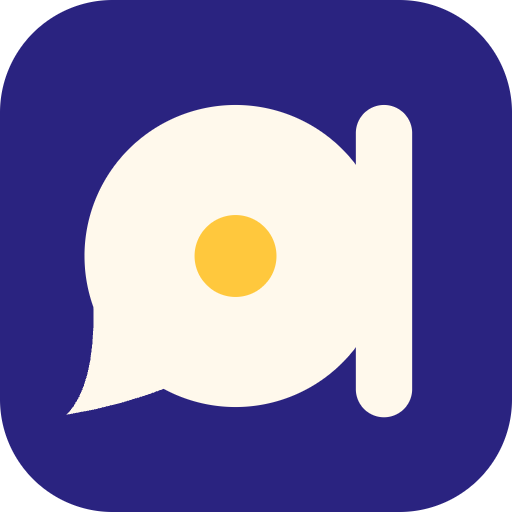
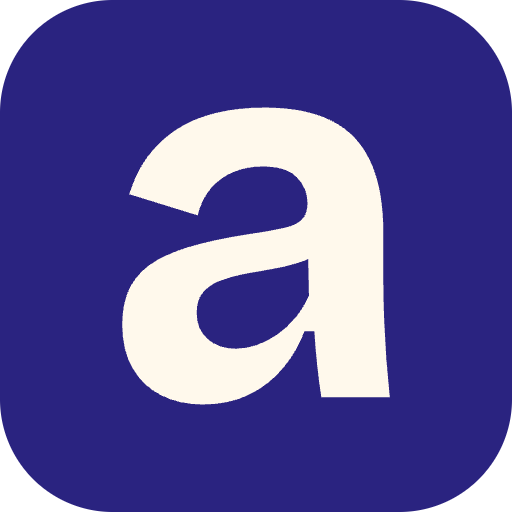
Logotipo de Aly en Bricolage Grotesque y títulos en la misma letra
Daniel eligió, entre tres direcciones que propuso Codex, la «aly» en
Bricolage Grotesque 700 (ancho 100, tamaño óptico 12): una grotesca cálida y
compacta, con la «a» abierta como una voz. Reemplaza la «a»-burbuja con
semilla de la primera versión.

- generar_marca.py guarda los trazados (la fuente es OFL; el logo no depende
  de que esté instalada) y regenera los SVG; PNG re-exportados con los mismos
  nombres, así que los correos (que cargan /marca/aly-correo.png) toman el
  logo nuevo apenas se despliega.
- Títulos de página (h1, encabezados nativos y el del login) en Bricolage
  Grotesque 700; Figtree para todo lo demás.
- Logotipo un poco más alto en la barra lateral (46 px) y el login (88 px):
  la palabra nueva es más compacta.

Verificado: AppTest de las 4 páginas en los 3 bots y el login; capturas del
panel y del login.

Claude-Session: https://claude.ai/code/session_01HRuNEynVdqXNFVZ36Uqjrp

Changed region(s): [[0.125, 0.1875, 0.8125, 0.8125]]

diff --git a/assets/brand/generar_marca.py b/assets/brand/generar_marca.py
@@ -1,65 +1,57 @@
-"""Isotipo y logotipo de Aly — fuente única de la marca.
+"""Logotipo e isotipo de Aly — fuente única de la marca.
 
-Aly es el asistente de WhatsApp de Equimundo (Apapáchar en Colombia, Semillas
-de Igualdad en México y el demo). La «a» es una burbuja de chat con la semilla
-adentro: la conversación (WhatsApp), el cuidado y lo que crece (Semillas); el
-resto del nombre va con el mismo trazo redondo.
+Aly es el asistente de WhatsApp de los programas de Equimundo (Apapáchar en
+Colombia, Semillas de Igualdad en México y el demo). El nombre va en
+**Bricolage Grotesque** 700 (ancho 100, tamaño óptico 12), convertida a
+trazados: una grotesca cálida y con carácter, compacta, con la «a» abierta
+como una voz. Los trazados los preparó Codex (OpenAI) a partir de la fuente
+de Google Fonts, que es SIL Open Font License; el logo no depende de que la
+fuente esté instalada. Elegida por Daniel el 2026-11-12, entre tres
+direcciones (ver CLAUDE.md, «Marca Aly»).
 
 Para regenerar los SVG de esta carpeta:
 
     python3 assets/brand/generar_marca.py
 
 Los PNG (WhatsApp 640, ícono 512, favicon 64, apple-touch 180, cabecera de
-correo 600×120) se rasterizan desde estos SVG con un navegador headless; no
-hace falta regenerarlos salvo que cambie el dibujo. Ver CLAUDE.md, «Marca».
+correo 600×120, logotipo para Word) se rasterizan desde estos SVG con un
+navegador headless; hay que regenerarlos si cambia el dibujo.
 """
 
-import math
-
 INDIGO, GIRASOL, CREMA = "#2A2380", "#FFC83D", "#FFF9EC"
-W = 11            # grosor del trazo
-R = 24            # radio del ojo (interior del trazo)
 
-def _bubble(cx, cy, ink):
-    """Burbuja rellena con cola abajo a la izquierda (forma de chat)."""
-    ro = R + W / 2
-    a = math.radians(128)
-    bx, by = cx + ro * math.cos(a), cy + ro * math.sin(a)          # donde nace la cola
-    a2 = math.radians(160)
-    b2x, b2y = cx + ro * math.cos(a2), cy + ro * math.sin(a2)
-    tipx, tipy = cx - ro - 3.5, cy + ro + 1.5                       # punta de la cola
-    return (f'<circle cx="{cx}" cy="{cy}" r="{ro}" fill="{ink}"/>'
-            f'<path d="M{b2x:.2f},{b2y:.2f} Q{cx-ro+2:.2f},{cy+ro-4:.2f} {tipx:.2f},{tipy:.2f} '
-            f'Q{bx-4:.2f},{by+6:.2f} {bx+6:.2f},{by+2:.2f} Z" fill="{ink}"/>')
+# Trazados de «aly» en Bricolage Grotesque 700. Línea base en y=100.
+_A = "M26.92 101.37Q22.55 101.37 19.15 99.65Q15.75 97.93 13.83 94.6Q11.92 91.27 11.92 86.43Q11.92 82.13 13.56 79.22Q15.2 76.3 18.42 74.49Q21.65 72.68 26.35 71.48Q31.05 70.28 37.17 69.4Q40.27 68.9 42.31 68.43Q44.35 67.97 45.38 66.93Q46.4 65.9 46.4 63.88Q46.4 61.08 44.41 59.07Q42.42 57.07 38.02 57.07Q35.18 57.07 32.71 58.07Q30.23 59.07 28.48 61.08Q26.72 63.1 25.95 66.17L13.22 62.23Q14.47 58.18 16.69 55.18Q18.92 52.18 22.11 50.12Q25.3 48.07 29.42 47.08Q33.53 46.1 38.38 46.1Q46.03 46.1 50.9 48.56Q55.77 51.02 58.14 56.17Q60.52 61.32 60.52 69.4V78.35Q60.52 81.83 60.67 85.48Q60.82 89.13 61.07 92.78Q61.33 96.43 61.72 100.0H48.97Q48.58 97.48 48.23 94.29Q47.87 91.1 47.68 87.75H45.85Q44.43 91.52 41.82 94.64Q39.2 97.77 35.46 99.57Q31.72 101.37 26.92 101.37ZM33.07 90.98Q34.95 90.98 36.9 90.32Q38.85 89.65 40.69 88.4Q42.53 87.15 44.09 85.29Q45.65 83.43 46.67 81.05L46.5 72.52L48.75 73.02Q46.92 74.32 44.53 75.05Q42.13 75.78 39.58 76.2Q37.02 76.62 34.52 77.1Q32.03 77.58 30.06 78.37Q28.08 79.15 26.93 80.53Q25.78 81.9 25.78 84.3Q25.78 87.4 27.82 89.19Q29.85 90.98 33.07 90.98Z"
+_L = "M70.38 100.0V28.48H84.5V100.0Z"
+_Y = "M114.82 118.23Q110.8 118.23 106.62 117.47Q102.43 116.72 98.8 115.19Q95.17 113.67 92.62 111.27L96.68 98.97Q99.88 102.28 104.68 103.94Q109.48 105.6 114.18 105.6Q119.57 105.6 123.09 103.44Q126.62 101.28 128.48 96.82Q130.35 92.35 130.6 85.6L131.23 76.57H128.97Q128.02 83.18 125.73 87.34Q123.45 91.5 120.01 93.44Q116.57 95.38 111.92 95.38Q106.17 95.38 102.28 92.5Q98.38 89.62 96.43 83.83Q94.47 78.05 94.47 69.52V47.47H108.88V66.03Q108.88 75.35 110.97 79.45Q113.05 83.55 117.42 83.55Q119.73 83.55 121.61 82.28Q123.48 81.02 124.83 78.63Q126.17 76.25 126.92 72.78Q127.67 69.32 127.73 64.9V47.47H142.1V86.18Q142.1 92.52 141.0 97.65Q139.9 102.78 137.73 106.62Q135.55 110.47 132.28 113.08Q129.0 115.68 124.66 116.96Q120.32 118.23 114.82 118.23Z"
 
-def _a(cx, cy, ink, seed):
-    sx = cx + R + W / 2 - 0.5
-    return (_bubble(cx, cy, ink) +
-            f'<path d="M{sx:.2f},{cy-R:.2f} L{sx:.2f},{cy+R+2:.2f}" stroke="{ink}" stroke-width="{W}" stroke-linecap="round"/>'
-            f'<circle cx="{cx}" cy="{cy}" r="8" fill="{seed}"/>')
+# Cajas exactas (medidas con fontTools): «aly» y la «a» sola.
+_ALY_BOX = (11.92, 28.48, 142.10, 118.23)
+_A_BOX = (11.92, 46.10, 61.72, 101.37)
 
-def isotipo(ink=INDIGO, seed=GIRASOL, bg=None, rx=24, size=None):
-    s = f' width="{size}" height="{size}"' if size else ""
-    bgs = f'<rect width="100" height="100" rx="{rx}" fill="{bg}"/>' if bg else ""
-    return (f'<svg xmlns="http://www.w3.org/2000/svg" viewBox="0 0 100 100"{s} role="img" aria-label="Aly">'
-            f'{bgs}{_a(46, 50, ink, seed)}</svg>')
 
-def logotipo(ink=INDIGO, seed=GIRASOL, height=None):
-    """«aly»: la a-burbuja + l + y del mismo trazo. viewBox 0 0 196 112 (línea base en y=83)."""
-    cx, cy = 34.5, 54
-    top, base = cy - R - W / 2, cy + R + W / 2          # altura x
-    sa = cx + R + W / 2 - 0.5                              # asta de la a
-    lx = sa + 22                                           # l
-    yl, yr = lx + 22, lx + 22 + 2 * R                      # y: brazo izq y der
-    ycx = (yl + yr) / 2
-    parts = [_a(cx, cy, ink, seed),
-             f'<path d="M{lx:.2f},{top-21:.2f} L{lx:.2f},{base-W/2:.2f}" stroke="{ink}" stroke-width="{W}" stroke-linecap="round"/>',
-             # y: «u» redonda cuyo brazo derecho baja y termina en un gancho hacia la izquierda
-             f'<path d="M{yl:.2f},{top+W/2:.2f} L{yl:.2f},{cy+2:.2f} A{R},{R} 0 0 0 {yr:.2f},{cy+2:.2f}" fill="none" stroke="{ink}" stroke-width="{W}" stroke-linecap="round"/>',
-             f'<path d="M{yr:.2f},{top+W/2:.2f} L{yr:.2f},{base+6:.2f} Q{yr:.2f},{base+22:.2f} {ycx:.2f},{base+22:.2f} L{ycx-7:.2f},{base+22:.2f}" fill="none" stroke="{ink}" stroke-width="{W}" stroke-linecap="round" stroke-linejoin="round"/>']
+def logotipo(ink=INDIGO, height=None):
+    """«aly» completo. viewBox ajustado a la palabra con 4 unidades de aire."""
+    x0, y0, x1, y1 = _ALY_BOX
+    pad = 4
+    vb = f"{x0 - pad:.2f} {y0 - pad:.2f} {x1 - x0 + 2 * pad:.2f} {y1 - y0 + 2 * pad:.2f}"
     h = f' height="{height}"' if height else ""
-    return (f'<svg xmlns="http://www.w3.org/2000/svg" viewBox="0 0 {yr+W:.0f} 118"{h} role="img" aria-label="Aly">'
-            + "".join(parts) + '</svg>')
+    return (f'<svg xmlns="http://www.w3.org/2000/svg" viewBox="{vb}"{h} role="img" aria-label="Aly">'
+            f'<g fill="{ink}"><path d="{_A}"/><path d="{_L}"/><path d="{_Y}"/></g></svg>')
+
+
+def isotipo(ink=INDIGO, bg=None, rx=22, alto=58, size=None):
+    """La «a» sola, centrada en un cuadrado de 100. ``alto`` = su altura en
+    ese cuadrado (58 para ícono y favicon; menos para WhatsApp, que recorta
+    en círculo)."""
+    x0, y0, x1, y1 = _A_BOX
+    s = alto / (y1 - y0)
+    cx, cy = (x0 + x1) / 2, (y0 + y1) / 2
+    sz = f' width="{size}" height="{size}"' if size else ""
+    fondo = f'<rect width="100" height="100" rx="{rx}" fill="{bg}"/>' if bg else ""
+    return (f'<svg xmlns="http://www.w3.org/2000/svg" viewBox="0 0 100 100"{sz} role="img" aria-label="Aly">'
+            f'{fondo}<path fill="{ink}" transform="translate(50 50) scale({s:.4f}) translate({-cx:.2f} {-cy:.2f})" d="{_A}"/></svg>')
+
 
 if __name__ == "__main__":
     from pathlib import Path

diff --git a/utils/styles.py b/utils/styles.py
@@ -5,8 +5,8 @@ from contextlib import contextmanager
 import streamlit as st
 
 COLORS = {
-    # Marca Aly (assets/brand/, CLAUDE.md «Marca»). Índigo = la voz de Aly;
-    # girasol = la semilla; crema/papel = el fondo cálido.
+    # Marca Aly (assets/brand/, CLAUDE.md «Marca Aly»). Índigo = la voz de Aly;
+    # girasol = el acento cálido (nunca texto); crema/papel = el fondo.
     "indigo":        "#2A2380",
     "girasol":       "#FFC83D",
     "crema":         "#FFF9EC",
@@ -42,6 +42,7 @@ def inject():
     <link rel="preconnect" href="https://fonts.googleapis.com">
     <link rel="preconnect" href="https://fonts.gstatic.com" crossorigin>
     <link href="https://fonts.googleapis.com/css2?family=Figtree:ital,wght@0,400..800;1,400..800&display=swap" rel="stylesheet">
+    <link href="https://fonts.googleapis.com/css2?family=Bricolage+Grotesque:opsz,wght@12..96,500..800&display=swap" rel="stylesheet">
     <link href="https://fonts.googleapis.com/css2?family=Material+Symbols+Rounded:opsz,wght,FILL,GRAD@20..48,400..600,0..1,-50..200" rel="stylesheet">
 
     <style>
@@ -59,6 +60,7 @@ def inject():
         --indigo:         #2A2380;
         --girasol:        #FFC83D;
         --crema:          #FFF9EC;
+        --font-titulos:   'Bricolage Grotesque', 'Figtree', system-ui, sans-serif;
         --accent-green:   #3FB68B;
         --accent-red:     #C8341F;
         --accent-yellow:  #FFC83D;
@@ -233,12 +235,14 @@ def inject():
     }
 
     /* ── Headings ───────────────────────────────────────────────────────── */
+    /* Títulos de página en Bricolage Grotesque, la letra del logotipo (marca
+       Aly). El resto de la interfaz sigue en Figtree. */
     h1 {
-        font-family: 'Figtree', system-ui, sans-serif !important;
-        font-size: 1.75rem !important;
-        font-weight: 800 !important;
+        font-family: 'Bricolage Grotesque', 'Figtree', system-ui, sans-serif !important;
+        font-size: 1.85rem !important;
+        font-weight: 700 !important;
         color: var(--text) !important;
-        letter-spacing: -0.015em !important;
+        letter-spacing: -0.02em !important;
         margin-bottom: 0.25rem !important;
     }
     h2, h3 {

diff --git a/utils/auth.py b/utils/auth.py
@@ -80,13 +80,14 @@ def _render_login_header():
         '[data-testid="stSidebar"], [data-testid="stExpandSidebarButton"],'
         '[data-testid="stSidebarCollapseButton"] { display: none !important; }'
         '[data-testid="stForm"] h1, [data-testid="stForm"] h2, [data-testid="stForm"] h3'
-        " { color: var(--text) !important; font-size: 1.15rem !important; }"
+        " { color: var(--text) !important; font-size: 1.2rem !important;"
+        " font-family: var(--font-titulos) !important; font-weight: 700 !important; }"
         "</style>"
     )
     st.markdown(
         '<div style="display:flex;flex-direction:column;align-items:center;'
         'gap:0.6rem;margin:3.2rem 0 1.4rem">'
-        f'<img src="{brand_data_uri("aly-logotipo.svg")}" alt="Aly" style="height:76px;width:auto;display:block">'
+        f'<img src="{brand_data_uri("aly-logotipo.svg")}" alt="Aly" style="height:88px;width:auto;display:block">'
         "<span style=\"font-family:'Figtree',sans-serif;font-size:0.95rem;font-weight:500;"
         f'color:{COLORS["text_secondary"]}">{t("brand_tagline_long")}</span>'
         "</div>",

diff --git a/components/filters.py b/components/filters.py
@@ -37,7 +37,7 @@ def _render_logo(bot_id=None):
     uri = brand_data_uri("aly-logotipo.svg")
     st.markdown(
         f'<div style="padding:0.35rem 0 1.1rem;display:flex;flex-direction:column;gap:0.35rem">'
-        f'<img src="{uri}" alt="Aly" style="height:40px;width:auto;align-self:flex-start;display:block">'
+        f'<img src="{uri}" alt="Aly" style="height:46px;width:auto;align-self:flex-start;display:block">'
         f'<span style="font-family:\'Figtree\',sans-serif;font-size:0.72rem;font-weight:600;'
         f'color:{COLORS["text_muted"]};letter-spacing:0.02em">{t("brand_tagline")}</span>'
         f'</div>',

diff --git a/CLAUDE.md b/CLAUDE.md
@@ -356,7 +356,10 @@ Aly_Apapachar (bot) → Conversation Closer → Supabase → este dashboard
 
 **Guía de marca** (logo, colores, tipografía, voz y aplicaciones): https://claude.ai/artifact/HsMQYpXo1R9xDNCvdjnvrQ. Es privada hasta que Daniel la comparta.
 
-- **Idea:** la «a» de Aly es una burbuja de chat con una semilla `girasol` adentro (conversación + lo que crece). El resto del nombre va con el mismo trazo redondo.
+- **Logotipo:** «aly» en **Bricolage Grotesque 700** (ancho 100, tamaño óptico 12), convertida a trazados: una grotesca cálida, compacta, con la «a» abierta como una voz.
+  - La eligió Daniel el 2026-11-12 entre tres direcciones que propuso Codex.
+  - Antes, ese mismo día, hubo una «a»-burbuja con una semilla girasol, que quedó descartada.
+  - El isotipo es la «a» sola. Fuente OFL, Google Fonts.
 - **Archivos:** `assets/brand/`. Los SVG salen de `generar_marca.py` (`python3 assets/brand/generar_marca.py` los regenera); los PNG se rasterizaron de esos SVG con un navegador headless:
   - `aly-whatsapp-640.png` (foto de perfil, centrada para el recorte en círculo)
   - `aly-icono-512.png`
@@ -364,10 +367,12 @@ Aly_Apapachar (bot) → Conversation Closer → Supabase → este dashboard
   - `apple-touch-icon.png`
   - `aly-correo.png` (cabecera de los correos)
   - `aly-logotipo-color.png` (para Word y PowerPoint)
-- **Colores:** índigo `#2A2380` (la voz: logo, títulos, botón principal), datos `#4B44C6` (barras, links, foco), girasol `#FFC83D` (solo forma, nunca texto), crema `#FFF9EC`, papel `#FBF8F2` (fondo), lavanda `#EEECFB` (selección, cabeceras), tinta `#1B1838` / `#36324D` / `#4A4560`. Estados: alerta `#C8341F` (solo alertas rojas), ámbar `#B45309`, éxito `#177245`.
+- **Colores:** índigo `#2A2380` (la voz: logo, títulos, botón principal), datos `#4B44C6` (barras, links, foco), girasol `#FFC83D` (acento: barrita de la navegación activa; nunca texto), crema `#FFF9EC`, papel `#FBF8F2` (fondo), lavanda `#EEECFB` (selección, cabeceras), tinta `#1B1838` / `#36324D` / `#4A4560`. Estados: alerta `#C8341F` (solo alertas rojas), ámbar `#B45309`, éxito `#177245`.
   - Viven en `COLORS` y en `:root` de `utils/styles.py`, y en `.streamlit/config.toml` (el tema nativo). **Los tres tienen que coincidir.**
   - `COLORS["ramp"]` es la rampa papel→datos de los mapas de calor y la coropleta; `COLORS["no_data"]` es el gris de los departamentos sin datos.
-- **Tipografía:** Figtree en todo, de Google Fonts. Va por el CSS de `inject()` y por `theme.font` de `config.toml`, que es lo que llega a los campos nativos (etiquetas, ES/EN). Títulos y cifras en 800.
+- **Tipografía:** Bricolage Grotesque (700) en los títulos de página (`h1`, `--font-titulos`) y Figtree en todo lo demás: texto, cifras, controles.
+  - Las dos vienen de Google Fonts y van por el CSS de `inject()`.
+  - En `config.toml` se cargan por `theme.headingFont` y `theme.font`, que son los que llegan a los componentes nativos.
 - **En el panel:**
   - Barra lateral: el logotipo (`brand_data_uri("aly-logotipo.svg")` en `utils/branding.py`) con «Panel de seguimiento» debajo y, abajo de eso, el logo del programa.
   - Login: el logotipo grande y, **debajo del formulario, el logo de Equimundo** (pedido de Daniel: «en el panel de logueo que quede el de Equimundo»).
